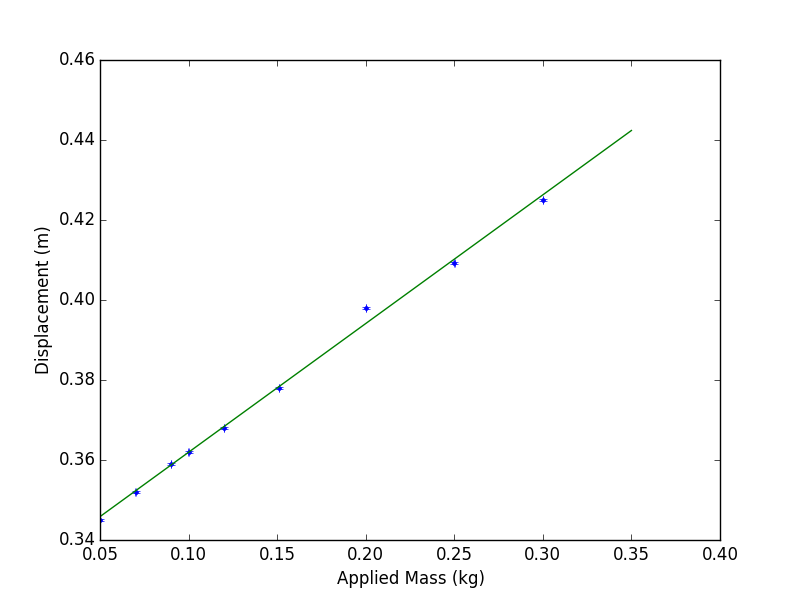
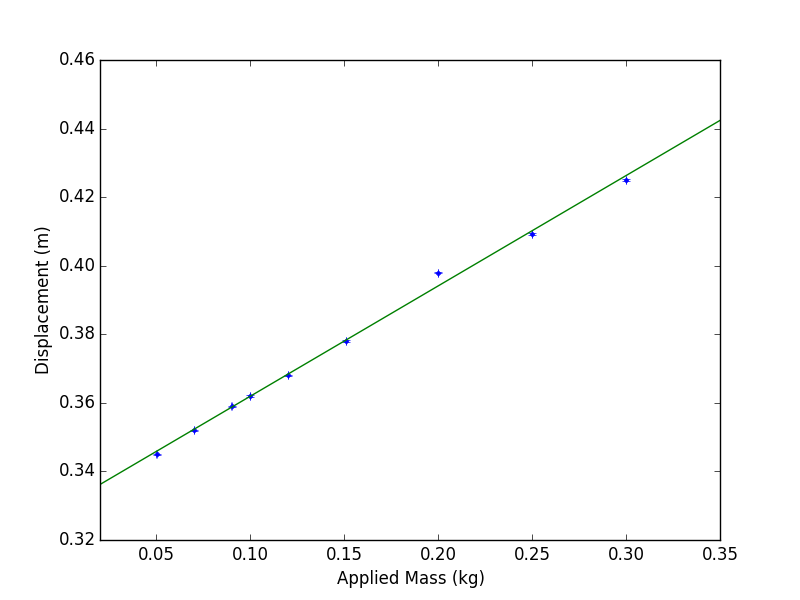
updates

diff --git a/analysis/partC_analysis.py b/analysis/partC_analysis.py
@@ -1,0 +1,245 @@
+from pylab import plot, show, figure, xlabel,ylabel, xlim,ylim, errorbar, legend, subplot, savefig
+from numpy.fft import fft,fftfreq,fftshift
+from math import pi
+from scipy.optimize import curve_fit
+from numpy import sqrt, diag
+
+k = {1:3.20778210044,
+     2:30.4874228538,
+     3:165.561223371,
+     4:55.4326207947}
+l = {1:0.1330,
+     2:0.2230,
+     3:0.3080,
+     4:0.4180}
+L = 0.5705
+m1,m2 = 2.931,2.946
+M = m1*m2/(m1+m2)
+lError = 0.003
+lError= 0.003
+
+
+def readData(filename):
+    t,p1,p2 = [],[],[]
+    
+    file = open(filename, 'r')
+    for line in file:
+        currLine = map(float, line.split())
+        t.append(currLine[0])
+        p1.append(currLine[1])
+        p2.append(currLine[2])
+    return t, p1, p2
+
+def naturalFrequency(f):
+    return 2*pi*f
+    
+def fourierTransform(t,p1,p2):
+    freq = map(naturalFrequency, fftfreq(len(t),t[1]-t[0]))
+    f1 = abs(fft(p1))
+    f2 = abs(fft(p2))
+    
+    # set zero frequency components to 0
+    f1[0] = 0
+    f2[0] = 0
+    
+    freq = fftshift(freq)
+    f1 = fftshift(f1)
+    f2 = fftshift(f2)
+    
+    # Truncate data to between -50 and +50
+    startNdx = findClosest(freq,-50)
+    endNdx = findClosest(freq,50)+1
+    freq = freq[startNdx:endNdx]
+    f1 = f1[startNdx:endNdx]
+    f2 = f2[startNdx:endNdx]
+    
+    return freq, f1, f2
+
+# dx is a list of the errors in the independent variables x
+def errorAddition(dx):
+    return sum(map(lambda x: x**2, dx))**0.5
+
+# y is the value calculated, x,dx are lists of variables and their errors
+def errorMultiplication(y,x,dx):
+    return y*(sum([(dx[i]/x[i])**2 for i in range(len(x))])**0.5)
+
+# y=x^n
+def errorPower(y,x,dx,n):
+    return abs(n)*y*dx/n
+
+# y = ax^n
+# dy = n*a*x^(n-1)dx, ax^(n-1)=y/x
+# dy = n*y*dx/x
+
+# y = a/x
+# dy = a/x^2dx
+# dy = a/x *dx/x = y*dx/x
+
+def expectedFrequency(k,l,m,L):
+    g = 9.81
+    return (g/L)**0.5, ((g/L)+2*k*l**2/(m*L**2))**0.5
+
+def expectedFrequency2(k,l,m,L):
+    g = 9.81
+    w_0 = (g/L)**0.5
+    return w_0, w_0+2*k*l**2/(w_0*m*L**2)
+
+def expectedFrequencyError(k,l,m,L,kError,lError,mError,LError):
+    f0,f1 = expectedFrequency(k,l,m,L)
+    
+    g = 9.81
+    
+    f1_sqr_1 = 2*k*l**2/(m*L**2)
+    f1_sqr_error = errorAddition([errorPower(g/L,L,LError,-1), errorMultiplication(f1_sqr_1,[k,l**2,m,L**2],[kError,errorPower(l**2,l,lError,2),mError,errorPower(L**2,L,LError,2)])])
+    
+    error_f0 = errorPower(f0,L,LError,0.5)
+    error_f1 = errorPower(f1,f1**2,f1_sqr_error,0.5)
+    
+    return error_f0, error_f1
+
+def findClosest(x,target):
+    error = float('inf')
+    ans = 0
+    for i in range(len(x)):
+        if abs(x[i]-target)<error:
+            error = abs(x[i]-target)
+            ans = i
+    return ans
+
+def Lorentz(x, A,x0,w):
+    return A*w**2/(4*(x-x0)**2+w**2)
+
+def fourPeakLorentz(xData, A0,A1,x1,x0,w0,w1,C):
+    return map(lambda x: Lorentz(x, A0,x0,w0)+Lorentz(x, A0,-x0,w0)+
+                         Lorentz(x, A1,x1,w1)+Lorentz(x, A1,-x1,w1)+C, xData)
+
+def findPeaks(x,y, peak_guess):
+    A = max(y) # assume the peaks are of comparable heights
+    w = 2*(x[1]-x[0]) # since we're fitting a fourier transform
+    
+    params,cov = curve_fit(fourPeakLorentz, x,y, p0=[A,A,peak_guess[0],peak_guess[1],w,w,min(y)])
+    
+    return params[2],params[3]
+
+def plotTimeDomain(t,p1,p2,filename):
+    figure(num=filename+' Time Domain')
+    subplot(2,1,1)
+    plot(t,p1,label='Pendulum 1')
+    xlabel('Time (s)')
+    ylabel('Angle (rad)')
+    legend(loc=0)
+    
+    subplot(2,1,2)
+    plot(t,p2,label='Pendulum 2')
+    xlabel('Time (s)')
+    ylabel('Angle (rad)')
+    legend(loc=0)
+    show()
+
+def plotFreqDomain(freq,f1,f2,filename):
+    figure(num=filename+' Frequency Domain')
+    plot(freq,f1,label='Pendulum 1')
+    plot(freq,f2,label='Pendulum 2')
+    xlabel('Frequency (rad/s)')
+    ylabel('Amplitude (arb. units)')
+    legend(loc=0)
+    xlim(-12,12)
+    show()
+
+def outputFinalData(filename, peaks_f1,peaks_f2,beat,beatError,expectedBeat,expectedBeatError):
+    pass
+
+# spring is 1,2,3,4, same with position
+def analyzeData(filename, spring,position):
+    t,p1,p2 = readData(filename)
+    freq,f1,f2 = fourierTransform(t,p1,p2)
+    
+    expectedOmega_0, expectedOmega_1 = expectedFrequency(k[spring],l[position],2*M,L)
+    expectedBeat = expectedOmega_1-expectedOmega_0
+    #expectedBeatError = errorAddition(expectedFrequencyError(k[spring],l[position],M,L))
+    
+    peaks_f1 = findPeaks(freq,f1, [expectedOmega_0,expectedOmega_1])
+    peaks_f2 = findPeaks(freq,f2, [expectedOmega_0,expectedOmega_1])
+    
+    f_error = 0.5*(freq[1]-freq[0])
+    
+    beatFreq_1 = abs(peaks_f1[1]-peaks_f1[0])
+    beatFreq_2 = abs(peaks_f2[1]-peaks_f2[0])
+    
+    beatFreq = 0.5*(beatFreq_1+beatFreq_2)
+    beatFreqError = f_error
+    
+    plotTimeDomain(t,p1,p2,filename)
+    savefig(filename.replace('.txt','_time.png'))
+    plotFreqDomain(freq,f1,f2,filename)
+    savefig(filename.replace('.txt','_freq.png'))
+
+    return peaks_f1,peaks_f2, f_error, beatFreq,beatFreqError
+
+#analyzeData('partc_s1_l4.txt',1,4)
+#analyzeData('partc_s2_l1.txt',2,1)
+#analyzeData('partc_s3_l1.txt',3,1)
+#analyzeData('partc_s3_l3.txt',3,3)
+
+
+print analyzeData('partc_s2_l3.txt',2,3), 's2l3'
+print analyzeData('partc_s3_l2.txt',3,2), 's3l2'
+print analyzeData('partc_s3_l3_nxg.txt',3,3), 's3l3_nxg'
+print analyzeData('partc_s4_l2.txt',4,2), 's4l2'
+
+
+f_0Error = 0.009
+f_0 = 4.147
+f_23,f_23Error = 4.82,0.02
+f_32,f_32Error = 5.86,0.03
+f_33,f_33Error = 7.07,0.04
+f_42,f_42Error = 4.79,0.01
+
+beat_23,beat_23Error = f_23-f_0, errorAddition([f_23Error,f_0Error])
+beat_32,beat_32Error = f_32-f_0, errorAddition([f_32Error,f_0Error])
+beat_33,beat_33Error = f_33-f_0, errorAddition([f_33Error,f_0Error])
+beat_42,beat_42Error = f_42-f_0, errorAddition([f_42Error,f_0Error])
+
+rows = [[2,3,0.64475255856726132, beat_23],
+        [3,2,1.4327185498282597, beat_32],
+        [3,3,2.4774796324241315, beat_33],
+        [4,2,0.58619399836624275, beat_42]]
+errors = [[None, None, 0.058768292832781593, beat_23Error],
+          [None, None, 0.058152918038720657, beat_32Error],
+          [None, None, 0.053144532753088024, beat_33Error],
+          [None, None, 0.034440953008981, beat_42Error]]
+units = [['' for j in i] for i in rows]
+
+f_1 = [4.7892788764101955, 5.6180963214705448, 6.6742552052830977, 4.7645321364439628]
+f_2 = [4.8433631674458191, 5.6231711263560928, 6.6619674824091426, 4.7641814758092673]
+f_error = [0.083110916761633291, 0.082240645381929767, 0.075157718985398247, 0.048706862846355392]
+f_1_theory = [f_23, f_32, f_33, f_42]
+f_1_error = [f_23Error, f_32Error, f_33Error, f_42Error]
+k_error = [0.6, 1, 1, 0.2]
+l_error = [0.3*0.01, 0.3*0.01, 0.3*0.01, 0.3*0.01]
+df_1 = [f_23-f_1[0], -f_1[1]+f_32, -f_1[2]+f_33, -f_1[3]+f_42]
+kl2 = [k[2]*l[3]**2, k[3]*l[2]**2, k[3]*l[3]**2, k[4]*l[2]**2]
+
+f0 = [4.1823990104605748, 4.160737916260917, 4.1840476904604111, 4.191782657709707, 4.1868734172599451, 4.1943900055840322, 4.1773682704003949, 4.1789573451203497]
+
+def linearFit(xData, a,b):
+    return map(lambda x: a*x+b, xData)
+
+def plotDeviations(kl2, K,L, f_1,f_2,f_t, f_error,f_t_error, k_error,l_error):
+    kl2_error = [errorMultiplication(kl2[i], [K[i],L[i]**2],[k_error[i],errorPower(L[i]**2,L[i],l_error[i],2)]) for i in range(len(kl2))]
+    avg_f = [0.5*(f_1[i]+f_2[i]) for i in range(len(f_1))]
+    avg_error = map(lambda x: x/2**0.5, f_error)
+    
+    deviations = [100*abs(f_t[i]-avg_f[i])/f_t[i] for i in range(len(avg_f))]
+    deviations_error = [errorMultiplication(deviations[i], [abs(f_t[i]-avg_f[i]),f_t[i]], [errorAddition([f_t_error[i], avg_error[i]]),f_t_error[i]]) for i in range(len(avg_error))]
+    
+    params,cov = curve_fit(linearFit, kl2,deviations, sigma=deviations_error)
+    
+    figure()
+    errorbar(kl2, deviations, xerr=kl2_error, yerr=deviations_error, fmt='.')
+    plot(xlim(),linearFit(xlim(),params[0],params[1]))
+    xlabel('Coupling Strength, $kl^{2}$, (Nm)')
+    ylabel('Percentage Deviation from Theory')
+    show()
+    
+    return params, sqrt(diag(cov))

diff --git a/analysis/partA_analysis.py b/analysis/partA_analysis.py
@@ -1,4 +1,4 @@
-from pylab import plot, show, figure, xlabel, ylabel, legend, xlim, ylim, errorbar, savefig
+from pylab import plot, show, figure, xlabel, ylabel, legend, xlim, ylim, errorbar, savefig, subplot
 from scipy.optimize import curve_fit
 from numpy import sqrt, diag
 
@@ -17,7 +17,10 @@ def readDataSpring(filename):
 def plotSpringData(m,x,dm,dx, params):
     figure()
     errorbar(m,x, xerr=dm,yerr=dx, fmt='.')
-    plot(xlim(), linear(xlim(), params[0],params[1]))
+    xlim(xmin=0.02)
+    limits = xlim()
+    plot(limits, linear(limits, params[0],params[1]))
+    xlim(limits)
     ylabel('Displacement (m)')
     xlabel('Applied Mass (kg)')
     show()
@@ -39,7 +42,8 @@ def analyzeSpring(filename):
     plotSpringData(m,x,dm,dx, params)
     savefig(filename.replace('.txt','.png'))
     
-    return k,k_error
+    #return k,k_error
+    return params, m,x,dm,dx, k,k_error
 
 # filenames is a list of filenames for springs 1,2,3,4
 def analyzeAllSprings(filenames):
@@ -55,11 +59,36 @@ def analyzeAllSprings(filenames):
     for s in range(len(k)):
         file.write('{0}\t{1}+/-{2}\n'.format(s+1,k[s],k_error[s]))
     file.close()
+    
+    return makeRowsFinal([i+1 for i in range(len(k))], k,k_error)
 
 filenames = ['parta_s1.txt', 'parta_s2.txt',
              'parta_s3.txt', 'parta_s4.txt']
-analyzeAllSprings(filenames)
+#analyzeAllSprings(filenames)
 
+
+def makeRowsFinal(springs, k,k_error):
+    rows = [[springs[i],k[i]] for i in range(len(springs))]
+    errors = [[None,k_error[i]] for i in range(len(springs))]
+    units = [['' for j in i] for i in rows]
+    
+    return rows,errors,units
+
+def makeRows(filename):
+    rows = [[]]
+    error = [[]]
+    
+    m,x,dm = readDataSpring(filename)
+    dx = 0.02
+    
+    for i in range(len(m)):
+        rows.append([1000*m[i],100*x[i]])
+        error.append([1000*dm[i],dx])
+    
+    units = [['' for j in i] for i in rows]
+    
+    return rows, error, units
+        
 
 def readDataPendula(filename):
     file = open(filename, 'r')
@@ -74,3 +103,36 @@ def readDataPendula(filename):
     L1_2 = l_p - 0.5*(L_t2+L_b2)
     l1_2,l2_2,l3_2,l4_2 = l_p-l1_2, l_p-l2_2, l_p-l3_2, l_p-l4_2
     file.close()
+
+params1,m1,x1,dm1,dx1,k1,dk1 = analyzeSpring(filenames[0])
+params2,m2,x2,dm2,dx2,k2,dk2 = analyzeSpring(filenames[1])
+params3,m3,x3,dm3,dx3,k3,dk3 = analyzeSpring(filenames[2])
+params4,m4,x4,dm4,dx4,k4,dk4 = analyzeSpring(filenames[3])
+
+figure()
+
+subplot(211)
+errorbar(m1,x1, xerr=dm1,yerr=dx1, fmt='.', label='Spring 1: $k=3.21\\pm0.02Nm^{-1}$')
+errorbar(m2,x2, xerr=dm2,yerr=dx2, fmt='.', label='Spring 2: $k=30.5\\pm0.6Nm^{-1}$')
+xlim(xmin=0.02)
+limits = xlim()
+plot(limits, linear(limits, params1[0],params1[1]))
+plot(limits, linear(limits, params2[0],params2[1]))
+xlim(limits)
+ylabel('Displacement (m)')
+xlabel('Applied Mass (kg)')
+legend(loc=0)
+
+subplot(212)
+errorbar(m3,x3, xerr=dm3,yerr=dx3, fmt='.', label='Spring 3: $k=166\\pm1Nm^{-1}$')
+errorbar(m4,x4, xerr=dm4,yerr=dx4, fmt='.', label='Spring 4: $k=55.4\\pm0.2Nm^{-1}$')
+xlim(xmin=0.02)
+limits = xlim()
+plot(limits, linear(limits, params3[0],params3[1]))
+plot(limits, linear(limits, params4[0],params4[1]))
+xlim(limits)
+ylabel('Displacement (m)')
+xlabel('Applied Mass (kg)')
+legend(loc=0)
+
+show()

diff --git a/analysis/uncoupledAnalysis.py b/analysis/uncoupledAnalysis.py
@@ -31,20 +31,20 @@ def fourierTransform(t,p1,p2):
 
 # assume that the side peaks are at x0-x1 and x0+x1
 # just three gaussians A*exp(-a*(x-x0)**2)
-def fitTriplePeak(xData, x0,x1, a0,a1, A0,A1_l,A1_r, C):
+def fitTriplePeak(xData, x0,x1,x2, a0,a1, A0,A1_l,A1_r, C):
     return map(lambda x: A0*exp(-a0*(x-x0)**2)+
                          A1_r*exp(-a1*(x-x0+x1)**2)+
-                         A1_l*exp(-a1*(x-x0-x1)**2)+C, xData)
+                         A1_l*exp(-a1*(x-x0-x2)**2)+C, xData)
 
 def fitFFT(freq, f, p0):
     params, cov = curve_fit(fitTriplePeak, freq,abs(f), p0=p0)
     errors = sqrt(diag(cov))
     
-    frequencies = params[:2]
-    errors_freq = errors[:2]
+    frequencies = params[:3]
+    errors_freq = errors[:3]
     
     return frequencies, errors_freq
 
 # initial parameters determined by looking at plots
-p0_1=[0,0.67, 6900,2400, 133063,51000,51000, 3]
-p0_2=[0,0.67, 6000,3080, 64400,54000,54000, 3]
+p0_1=[0,0.67,0.67, 6900,2400, 133063,51000,51000, 3]
+p0_2=[0,0.67,0.67, 6000,3080, 64400,54000,54000, 3]
